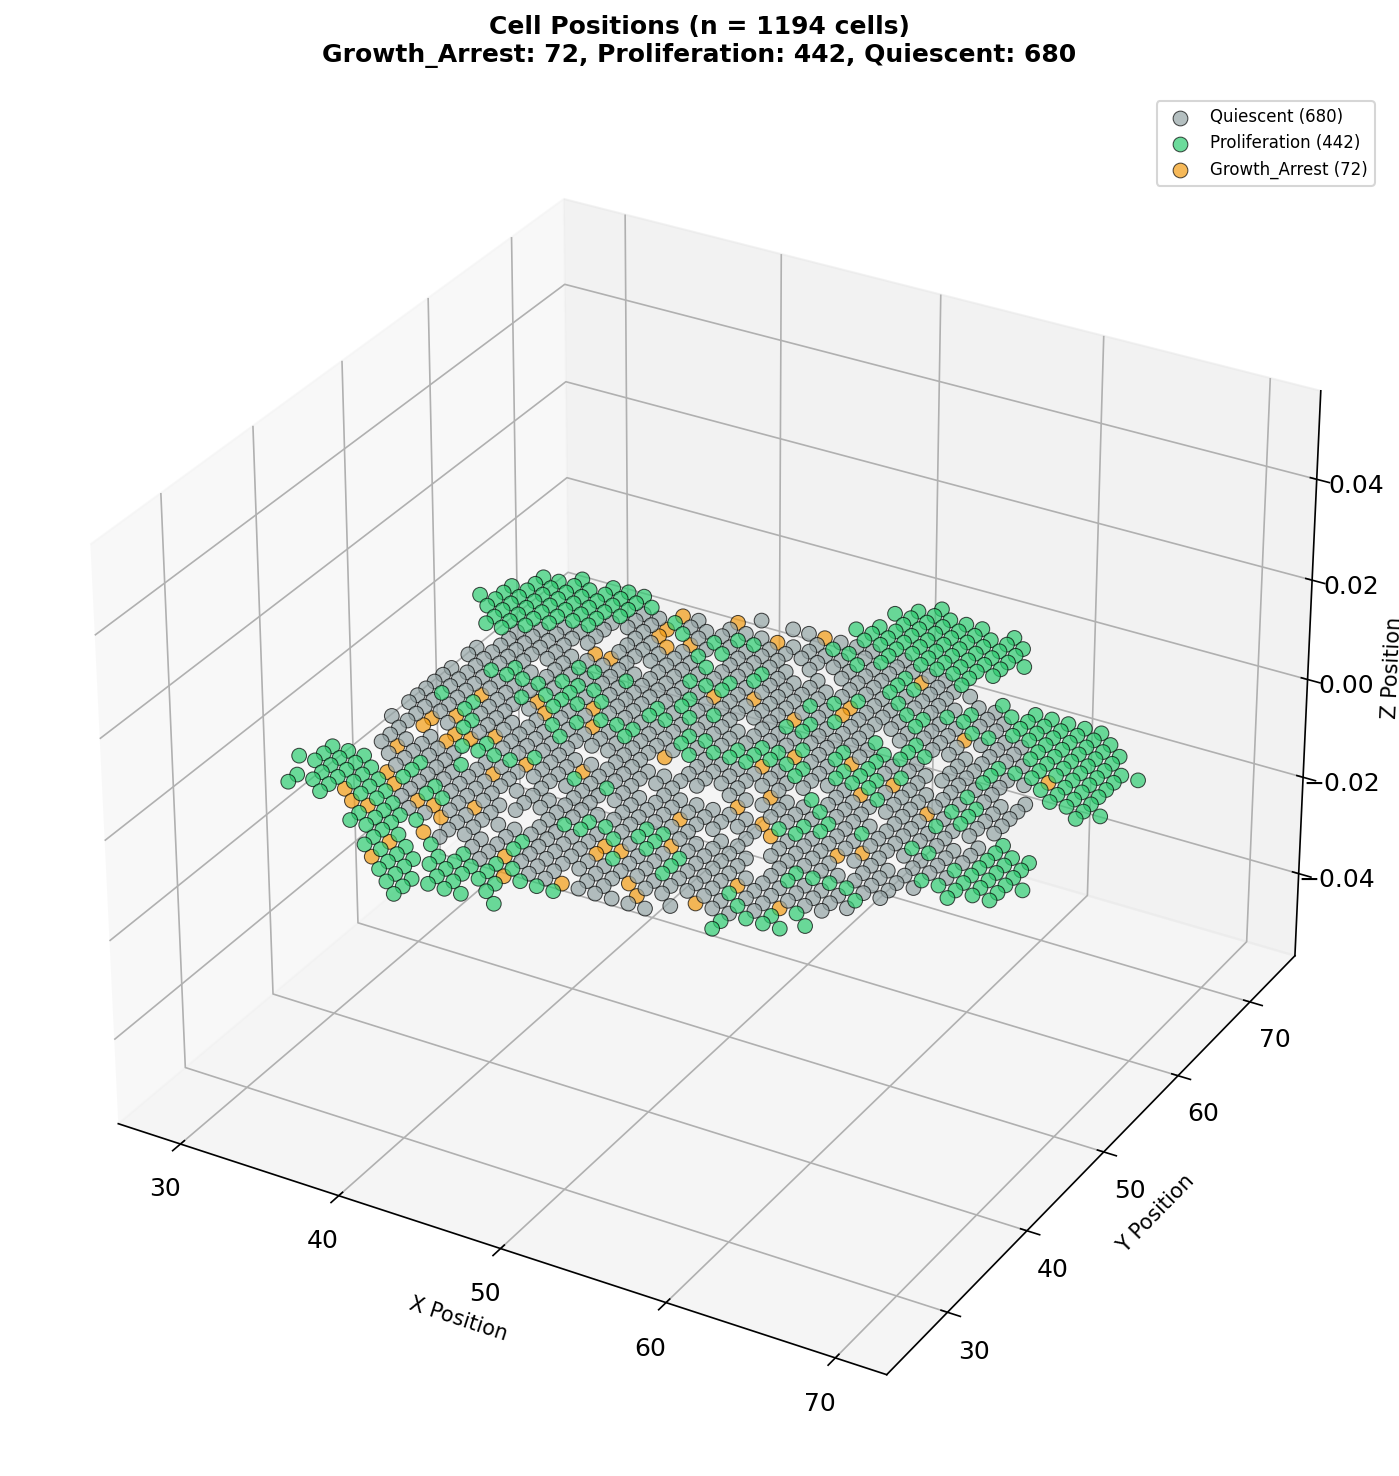
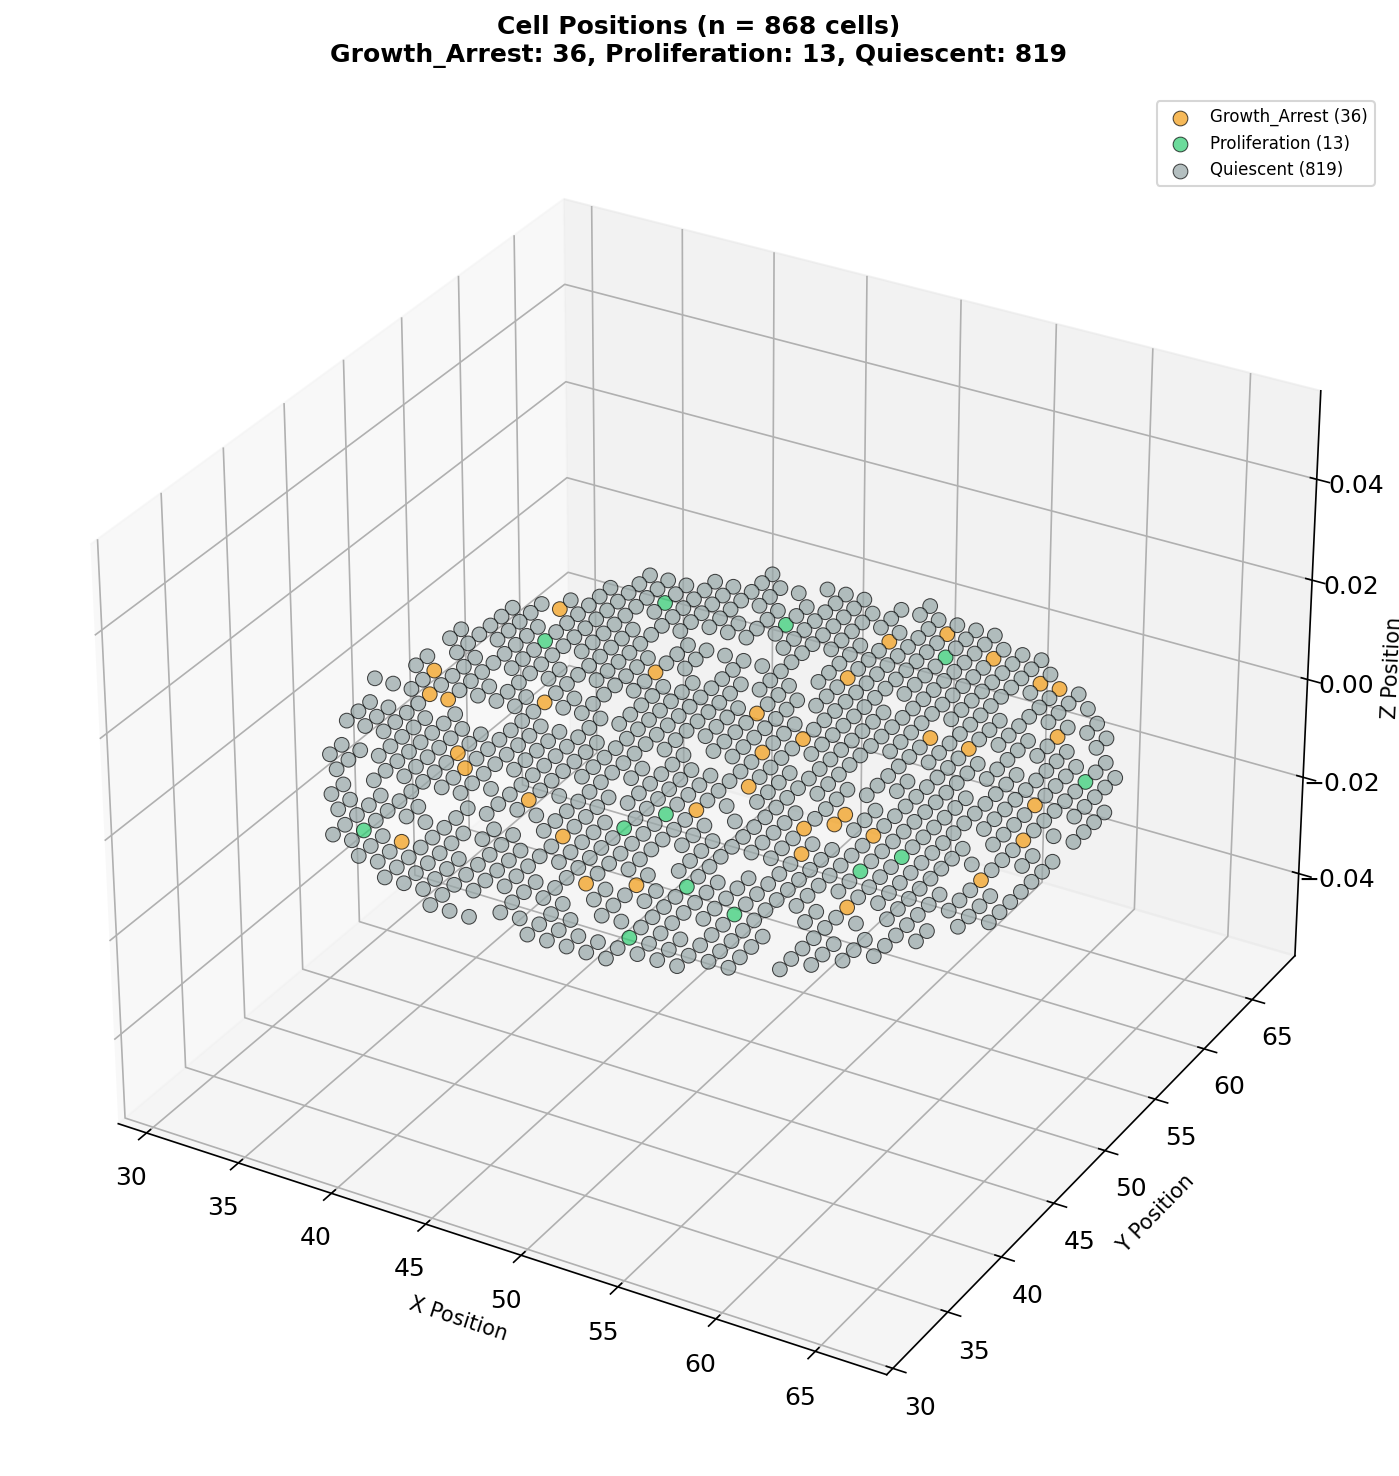
advancing toward perfect matching with netlogo

diff --git a/opencellcomms_engine/src/workflow/functions/intercellular/update_cell_division.py b/opencellcomms_engine/src/workflow/functions/intercellular/update_cell_division.py
@@ -19,6 +19,7 @@ import random
 from src.workflow.decorators import register_function
 from src.interfaces.base import ICellPopulation, IConfig
 from src.biology.cell import Cell
+from src.biology.gene_network import HierarchicalBooleanNetwork
 
 
 @register_function(
@@ -171,33 +172,43 @@ def _perform_divisions(population, cells_to_divide, cell_radius: float, config,
         )
         updated_cells[cell_id] = parent_cell
 
-        # Create new daughter cell with same properties as parent
+        # Generate new cell ID first (needed for gene network mapping)
+        new_cell_id = _generate_cell_id(population)
+
+        # Create a FRESH gene network for the daughter cell.
+        # In NetLogo (and the population benchmark), daughter cells start with
+        # random gene states, new random thresholds, and fate=None.
+        # They do NOT inherit the parent's gene network state.
+        daughter_gene_states = {}
+        if gene_networks and cell_id in gene_networks:
+            daughter_gn = _create_fresh_daughter_network(context)
+            if daughter_gn is not None:
+                gene_networks[new_cell_id] = daughter_gn
+                # Read the fresh gene states from the daughter's network
+                daughter_gene_states = {
+                    name: node.current_state
+                    for name, node in daughter_gn.nodes.items()
+                }
+
+        # Create new daughter cell (Quiescent — no fate yet)
         daughter_cell = Cell(
             position=daughter_position,
-            phenotype=parent_cell.state.phenotype,
+            phenotype='Quiescent',
             custom_functions_module=parent_cell.custom_functions
         )
-        
-        # Copy parent's state to daughter (age=0, division_count=0)
+
+        # Set daughter state: fresh gene states, age=0, division_count=0
         daughter_cell.state = daughter_cell.state.with_updates(
             age=0.0,
             division_count=0,
-            gene_states=parent_cell.state.gene_states.copy(),
+            gene_states=daughter_gene_states if daughter_gene_states else parent_cell.state.gene_states.copy(),
             metabolic_state=parent_cell.state.metabolic_state.copy()
         )
 
-        # Generate new cell ID
-        new_cell_id = _generate_cell_id(population)
         new_cells[new_cell_id] = daughter_cell
 
         # Mark position as occupied
         occupied_positions.add(daughter_position)
-        
-        # Clone parent's gene network for daughter cell (if gene networks are enabled)
-        if gene_networks and cell_id in gene_networks:
-            parent_gn = gene_networks[cell_id]
-            daughter_gn = parent_gn.copy()  # BooleanNetwork has a copy() method
-            gene_networks[new_cell_id] = daughter_gn
 
     # Update population with new and updated cells
     initial_count = len(population.state.cells)
@@ -211,6 +222,95 @@ def _perform_divisions(population, cells_to_divide, cell_radius: float, config,
               f"(added {len(new_cells)} daughter cells, {failed_divisions} failed)")
     elif failed_divisions > 0:
         print(f"[DIVISION] No divisions completed ({failed_divisions} failed - no free neighbour)")
+
+
+def _create_fresh_daughter_network(context: Dict[str, Any]):
+    """
+    Create a fresh gene network for a daughter cell, matching NetLogo behaviour.
+
+    In NetLogo (and the population benchmark), daughter cells start with:
+    - Fate nodes → False
+    - Gene nodes → random True/False
+    - fate = None  (no fate assigned yet)
+    - last_node = random input node
+    - cell_ran1, cell_ran2 = new random values (cell-to-cell variability)
+    - Input states applied (with probabilistic activation for GLUT1I/MCT1I)
+
+    This mirrors ``Cell.reset(random_init=True)`` + ``Cell.set_input_states()``
+    in gene_network_population_simulator.py.
+
+    Args:
+        context: Workflow context containing 'gene_network_config',
+                 'gene_network_inputs', and optionally concentration parameters.
+
+    Returns:
+        A fully initialised HierarchicalBooleanNetwork, or None on failure.
+    """
+    FATE_NODE_NAMES = {'Apoptosis', 'Proliferation', 'Growth_Arrest', 'Necrosis'}
+
+    gn_config = context.get('gene_network_config')
+    if gn_config is None:
+        return None
+
+    random_init = context.get('random_initialization', True)
+    fate_hierarchy = context.get('fate_hierarchy',
+                                 ["Necrosis", "Apoptosis", "Growth_Arrest", "Proliferation"])
+    input_states = context.get('gene_network_inputs', {})
+
+    try:
+        daughter_gn = HierarchicalBooleanNetwork(
+            config=gn_config,
+            fate_hierarchy=fate_hierarchy,
+        )
+
+        # Reset node states (benchmark: reset())
+        for node in daughter_gn.nodes.values():
+            if node.is_input:
+                continue
+            elif node.name in FATE_NODE_NAMES:
+                node.current_state = False
+                node.next_state = False
+            else:
+                state = random.choice([True, False]) if random_init else False
+                node.current_state = state
+                node.next_state = state
+
+        # Build output links for graph walking
+        from src.workflow.functions.gene_network.initialize_netlogo_gene_networks import (
+            _build_output_links, _apply_input_states,
+        )
+        _build_output_links(daughter_gn)
+        daughter_gn._output_links_built = True
+
+        # New per-cell random thresholds
+        daughter_gn._cell_ran1 = random.random()
+        daughter_gn._cell_ran2 = random.random()
+
+        # Graph walking start: random input node
+        input_node_names = [n for n, nd in daughter_gn.nodes.items() if nd.is_input]
+        if input_node_names:
+            daughter_gn._last_node = random.choice(input_node_names)
+        else:
+            daughter_gn._last_node = random.choice(list(daughter_gn.nodes.keys()))
+
+        daughter_gn._fate = None
+
+        # Apply input states (with probabilistic activation)
+        # Retrieve concentration values stored during initialization
+        init_params = context.get('gene_network_init_params', {})
+        MCT1I_conc = init_params.get('MCT1I_concentration', 0.0)
+        GLUT1I_conc = init_params.get('GLUT1I_concentration', 0.0)
+        _apply_input_states(
+            daughter_gn, input_states,
+            MCT1I_concentration=MCT1I_conc,
+            GLUT1I_concentration=GLUT1I_conc,
+        )
+
+        return daughter_gn
+
+    except Exception as e:
+        print(f"[DIVISION] WARNING: Failed to create fresh daughter network: {e}")
+        return None
 
 
 def _find_daughter_position(parent_position, occupied_positions, domain_bounds,

diff --git a/opencellcomms_engine/src/workflow/functions/intercellular/mark_proliferating_cells.py b/opencellcomms_engine/src/workflow/functions/intercellular/mark_proliferating_cells.py
@@ -34,14 +34,18 @@ def mark_proliferating_cells(
     """
     Mark cells as proliferating based on gene network Proliferation output.
 
+    This is the LAST marking function in the cycle and acts as the final arbiter.
+
     For each cell:
     1. Check if Proliferation gene is ON in gene_states
-    2. If yes, mark cell phenotype as 'Proliferation' (overwrites previous phenotype)
-    3. If no, leave phenotype unchanged (preserves Apoptosis/Growth_Arrest marks)
-    
-    Note: Proliferation phenotype overwrites Growth_Arrest and Apoptosis.
-    This follows the principle that proliferating cells override other states.
-    Cells without any marked phenotype default to 'Quiescence'.
+    2. If yes → phenotype = 'Proliferation' (overwrites any previous phenotype)
+    3. If no  → check if an earlier marker (Apoptosis/Growth_Arrest) was set:
+       - If yes → keep that phenotype (respect earlier marking functions)
+       - If no  → reset to 'Quiescent' (no active fate this cycle → no action)
+
+    The Quiescent reset is critical: without it, stale phenotypes from previous
+    iterations would persist and cause cells to keep dividing/dying even when
+    the gene network no longer supports that fate.
 
     Args:
         context: Workflow execution context containing:
@@ -70,6 +74,12 @@ def mark_proliferating_cells(
     proliferating_count = 0
     overwritten_count = 0
     unchanged_count = 0
+    quiescent_count = 0
+
+    # Phenotypes that were set by earlier marking functions in THIS cycle
+    # (mark_apoptotic_cells, mark_growth_arrest_cells).
+    # These should NOT be overwritten to Quiescent.
+    active_fate_phenotypes = {'Apoptosis', 'Growth_Arrest'}
 
     for cell_id, cell in population.state.cells.items():
         # Store old phenotype for logging
@@ -81,14 +91,21 @@ def mark_proliferating_cells(
             # Mark as proliferating (overwrites any previous phenotype)
             if cell.state.phenotype != 'Proliferation':
                 cell.state = cell.state.with_updates(phenotype='Proliferation')
-                if old_phenotype in {'Growth_Arrest', 'Apoptosis'}:
+                if old_phenotype in active_fate_phenotypes:
                     overwritten_count += 1
                     print(f"  [PROLIFERATION-OVERWRITE] Cell {cell_id[:8]}: {old_phenotype} -> Proliferation")
             proliferating_count += 1
         else:
-            # If Proliferation gene is OFF, leave phenotype unchanged
-            # This preserves Apoptosis/Growth_Arrest marks from previous functions
-            unchanged_count += 1
+            # Proliferation gene is OFF.
+            # If cell was already marked Apoptosis/Growth_Arrest by earlier
+            # marking functions in this cycle, keep that phenotype.
+            # Otherwise reset to Quiescent (no active fate → no action).
+            if cell.state.phenotype not in active_fate_phenotypes:
+                if cell.state.phenotype != 'Quiescent':
+                    cell.state = cell.state.with_updates(phenotype='Quiescent')
+                quiescent_count += 1
+            else:
+                unchanged_count += 1
 
         updated_cells[cell_id] = cell
 
@@ -97,7 +114,8 @@ def mark_proliferating_cells(
 
     # Log summary
     print(f"[PROLIFERATION] Proliferating: {proliferating_count}, "
-          f"Unchanged: {unchanged_count}, Overwritten: {overwritten_count}")
+          f"Quiescent: {quiescent_count}, "
+          f"Kept(Apoptosis/GA): {unchanged_count}, Overwritten: {overwritten_count}")
 
     # Log population count at end
     final_count = len(population.state.cells)
@@ -107,6 +125,7 @@ def mark_proliferating_cells(
     context['changes'] = context.get('changes', {})
     context['changes']['proliferation'] = {
         'proliferating': proliferating_count,
+        'quiescent': quiescent_count,
         'unchanged': unchanged_count,
         'overwritten': overwritten_count
     }

diff --git a/opencellcomms_engine/src/workflow/functions/intercellular/mark_apoptotic_cells.py b/opencellcomms_engine/src/workflow/functions/intercellular/mark_apoptotic_cells.py
@@ -34,7 +34,12 @@ def mark_apoptotic_cells(
     """
     Mark apoptotic cells based on gene network Apoptosis output.
 
+    This is the FIRST marking function in the cycle.  It resets ALL cell
+    phenotypes to 'Quiescent' before applying marks, preventing stale
+    phenotypes from previous iterations from carrying over.
+
     For each cell:
+    0. Reset phenotype to 'Quiescent' (clear stale state)
     1. Check if Apoptosis gene is ON in gene_states
     2. If yes, set phenotype to 'Apoptosis'
     3. Cells remain in population until remove_apoptotic_cells is called
@@ -60,6 +65,17 @@ def mark_apoptotic_cells(
         return
 
     # =========================================================================
+    # RESET ALL PHENOTYPES TO QUIESCENT
+    # =========================================================================
+    # This is the FIRST marking function in the cycle.  We reset every cell to
+    # Quiescent so that stale phenotypes from the previous iteration do not
+    # carry over.  Subsequent marking functions (Growth_Arrest, Proliferation)
+    # will overwrite Quiescent when their respective gene is active.
+    for cell in population.state.cells.values():
+        if cell.state.phenotype != 'Quiescent':
+            cell.state = cell.state.with_updates(phenotype='Quiescent')
+
+    # =========================================================================
     # MARK APOPTOTIC CELLS
     # =========================================================================
     updated_cells = {}
@@ -71,11 +87,9 @@ def mark_apoptotic_cells(
         gene_states = cell.state.gene_states
         if gene_states.get('Apoptosis', False):
             # Mark cell as apoptotic
-            if cell.state.phenotype != 'Apoptosis':
-                cell.state = cell.state.with_updates(phenotype='Apoptosis')
-                marked_count += 1
-                marked_cell_ids.append(cell_id[:8])
-                print(f"  [APOPTOSIS-MARK] Marking cell {cell_id[:8]} at {cell.state.position} (Apoptosis gene ON)")
+            cell.state = cell.state.with_updates(phenotype='Apoptosis')
+            marked_count += 1
+            marked_cell_ids.append(cell_id[:8])
 
         updated_cells[cell_id] = cell
 

diff --git a/opencellcomms_engine/src/workflow/functions/gene_network/initialize_netlogo_gene_networks.py b/opencellcomms_engine/src/workflow/functions/gene_network/initialize_netlogo_gene_networks.py
@@ -198,6 +198,13 @@ def initialize_netlogo_gene_networks(
         }
         context['gene_network_inputs'] = input_states
 
+        # Store concentration parameters so daughter cells created during
+        # division can reuse the same probabilistic activation settings.
+        context['gene_network_init_params'] = {
+            'MCT1I_concentration': MCT1I_concentration,
+            'GLUT1I_concentration': GLUT1I_concentration,
+        }
+
         # =================================================================
         # 4. CREATE GENE NETWORK PER CELL
         # =================================================================
